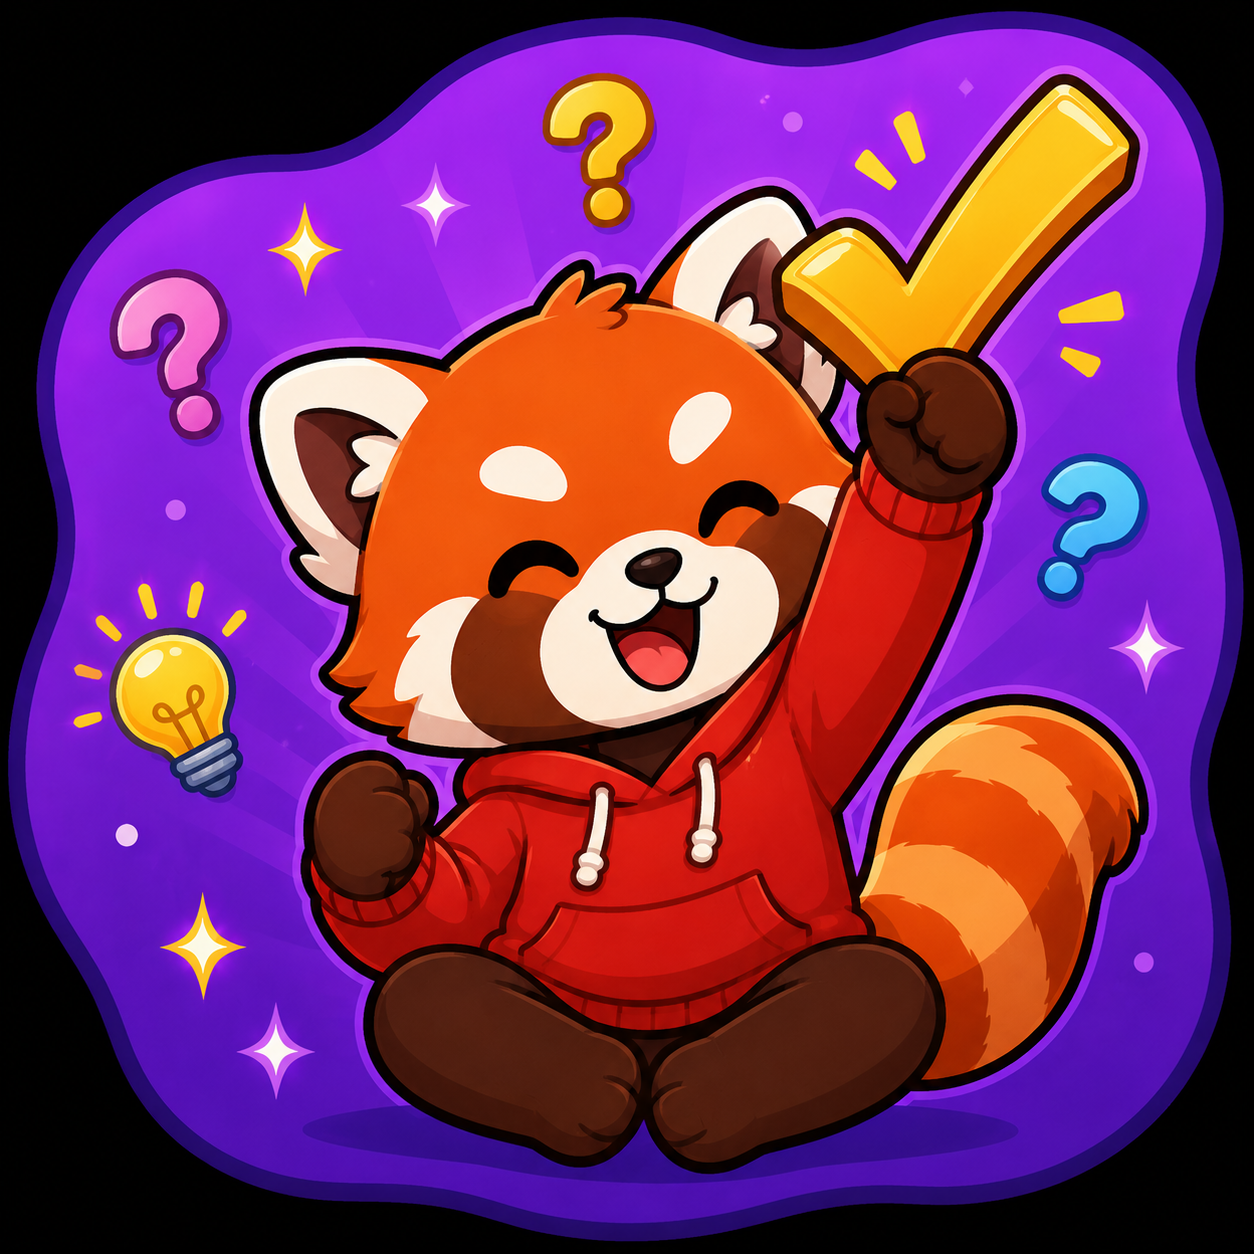
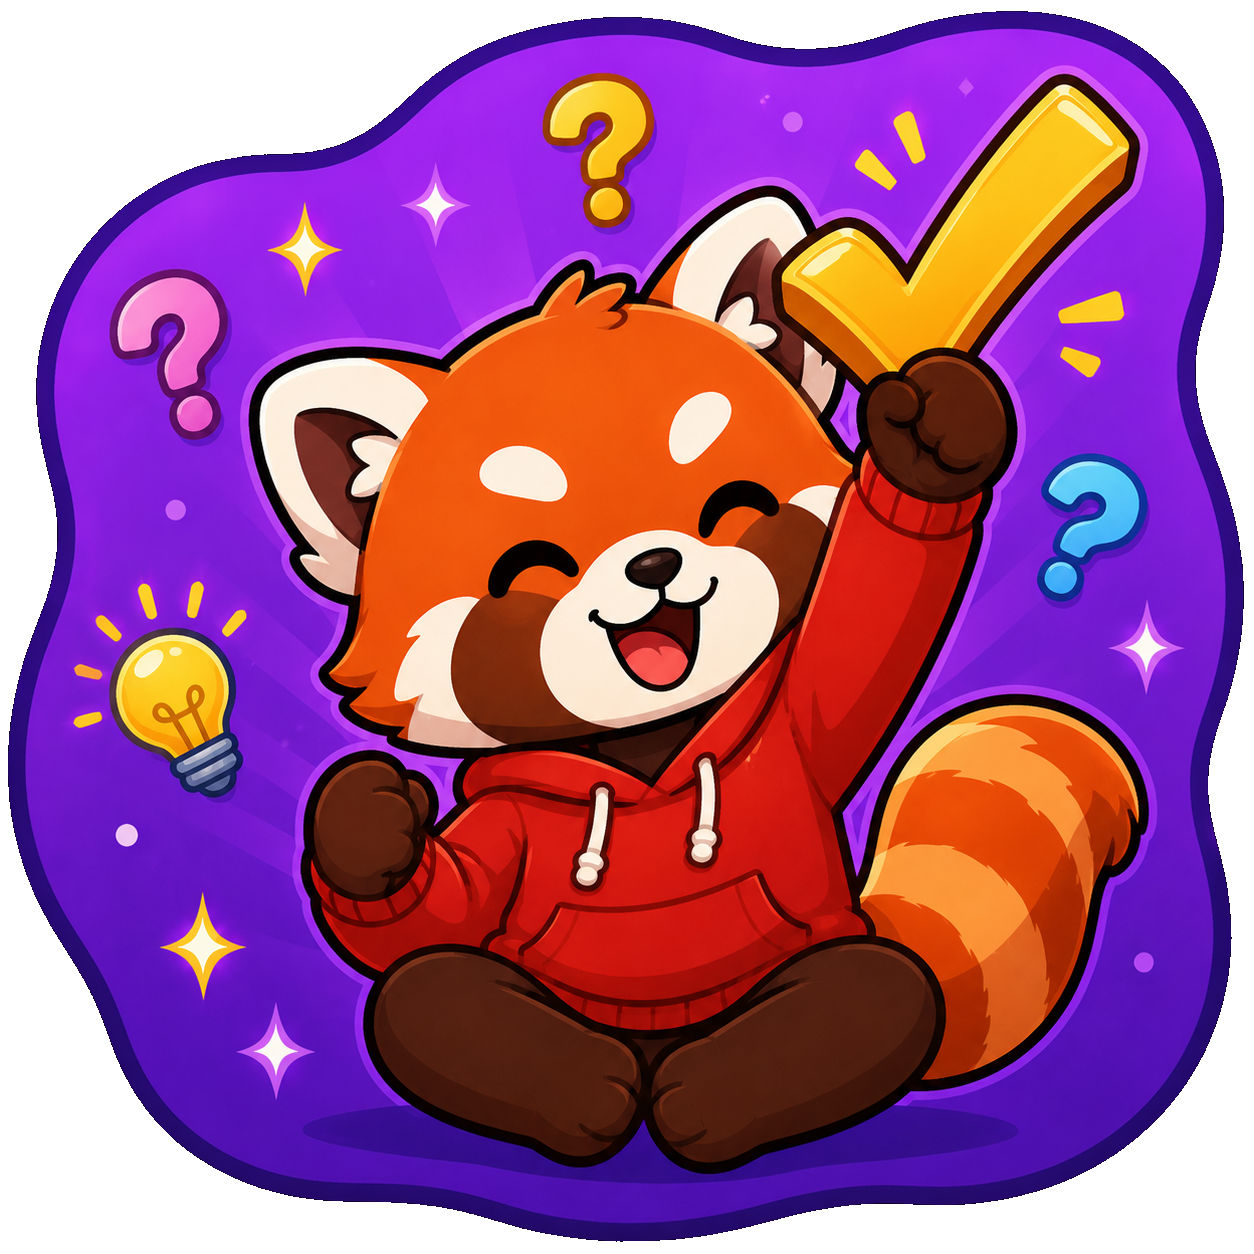
feat: hapus background solid dari 24 PNG badge

Changed region(s): [[0.0, 0.0, 1.0, 1.0]]

diff --git a/remove_bg.py b/remove_bg.py
@@ -1,0 +1,60 @@
+from PIL import Image
+import numpy as np
+from collections import deque
+import os
+import glob
+
+def flood_fill_transparent(path, out_path, tol=40):
+    img = Image.open(path).convert("RGBA")
+    arr = np.array(img)
+    h, w = arr.shape[:2]
+    visited = np.zeros((h, w), dtype=bool)
+
+    corner_color = arr[0, 0, :3].astype(int)
+
+    q = deque()
+    for x in range(w):
+        for y in [0, h - 1]:
+            if not visited[y, x]:
+                q.append((y, x))
+    for y in range(h):
+        for x in [0, w - 1]:
+            if not visited[y, x]:
+                q.append((y, x))
+
+    def close_enough(y, x):
+        px = arr[y, x, :3].astype(int)
+        return np.abs(px - corner_color).sum() <= tol
+
+    while q:
+        y, x = q.popleft()
+        if visited[y, x]:
+            continue
+        if not close_enough(y, x):
+            continue
+        visited[y, x] = True
+        arr[y, x, 3] = 0
+        if y > 0: q.append((y - 1, x))
+        if y < h - 1: q.append((y + 1, x))
+        if x > 0: q.append((y, x - 1))
+        if x < w - 1: q.append((y, x + 1))
+
+    Image.fromarray(arr, "RGBA").save(out_path)
+    print(f"OK: {os.path.basename(path)} (corner_color={corner_color}, transparent_px={visited.sum()})")
+
+FOLDER = "frontend/public/assets/badge"
+BACKUP = "frontend/public/assets/badge_backup_original"
+
+os.makedirs(BACKUP, exist_ok=True)
+
+for filepath in glob.glob(os.path.join(FOLDER, "*.png")):
+    filename = os.path.basename(filepath)
+    backup_path = os.path.join(BACKUP, filename)
+    if not os.path.exists(backup_path):
+        Image.open(filepath).save(backup_path)
+    try:
+        flood_fill_transparent(filepath, filepath, tol=40)
+    except Exception as e:
+        print(f"GAGAL: {filename} — {e}")
+
+print("Selesai. File asli ada backup-nya di folder badge_backup_original/ kalau perlu di-restore.")
